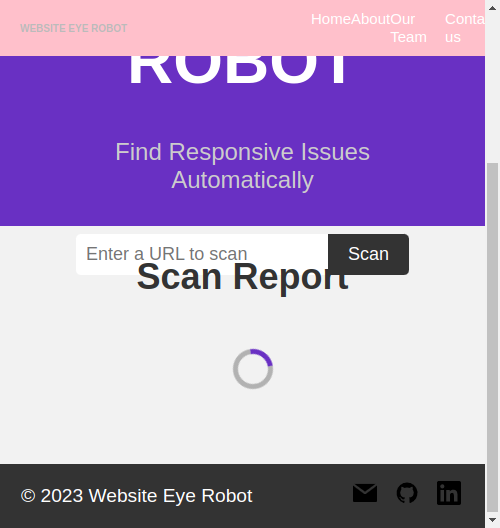
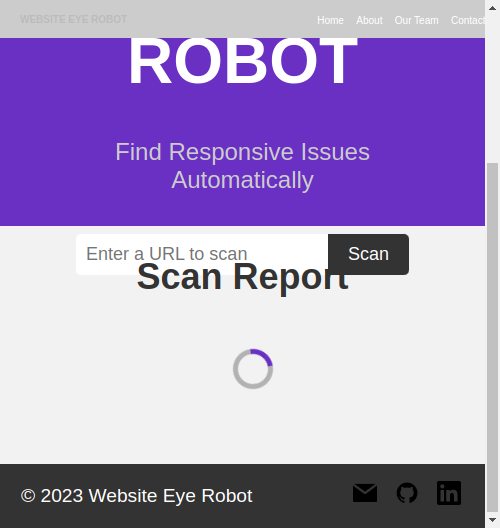
scanners improvements

Changed region(s): [[0.0, 0.0, 0.99, 0.1212]]

diff --git a/Website/script.js b/Website/script.js
@@ -10,7 +10,7 @@ function setLoadingState(isLoading) {
 
 async function getReport() {
   setLoadingState(true);
-  const response = await fetch('http://127.0.0.1:3035/report', {
+  const response = await fetch('http://127.0.0.1:3038/report', {
     method: 'GET',
     headers: { 'Content-Type': 'application/json' }
   })
@@ -52,7 +52,7 @@ function ScanReport() {
   try {
     const urlInput = document.querySelector('#url-input').value.trim();
     // Send the URL to the server for scanning
-    fetch('http://127.0.0.1:3035/report', {
+    fetch('http://127.0.0.1:3038/report', {
       method: 'POST',
       headers: { 'Content-Type': 'application/json' },
       body: JSON.stringify({ url: urlInput })

diff --git a/Website/style.css b/Website/style.css
@@ -15,7 +15,7 @@ nav {
     justify-content: space-between;
     align-items: center;
     /* background-color: #262626; */
-    background-color: pink;
+    background-color: #ccc;
     color: #B2B2B2;
     padding: 10px 20px;
     position: fixed;
@@ -64,7 +64,7 @@ nav {
 .nav-links a {
     color: #fff;
     text-decoration: none;
-    font-size: 15px;
+    font-size: 10px;
 }
 
 /* Introduction Styles */

diff --git a/COMPLETED/NEW_SCANNER_SMALL_TEXT.py b/COMPLETED/NEW_SCANNER_SMALL_TEXT.py
@@ -69,7 +69,7 @@ def calculate_min_max_height(height):
     # The minimum height of a region to be considered as containing small text
     reference_height = 1080
     min_height = 0
-    max_height = 35
+    max_height = 25
     ratio = height / reference_height
 
     MIN_HEIGHT = int(ratio * min_height)  # adjust based on image resolution
@@ -83,13 +83,14 @@ def calculate_min_max_height(height):
 def preprocess_image(img):
     # Convert the image to grayscale
     gray = cv2.cvtColor(img, cv2.COLOR_BGR2GRAY)
-
+    # Apply histogram equalization to the grayscale image
+    gray = cv2.equalizeHist(gray)
     # Enhance contrast using CLAHE
-    clahe = cv2.createCLAHE(clipLimit=4.0, tileGridSize=(8, 8))
+    clahe = cv2.createCLAHE(clipLimit=5.0, tileGridSize=(1, 1))
     gray = clahe.apply(gray)
 
     # Apply noise removal to the grayscale image using Gaussian blur
-    gray = cv2.GaussianBlur(gray, (5, 5), 0)
+    gray = cv2.GaussianBlur(gray, (1, 3), 0)
 
     # Sharpen the image using a kernel
     kernel = np.array([[-1, -1, -1], [-1, 9, -1], [-1, -1, -1]])
@@ -100,7 +101,7 @@ def preprocess_image(img):
 
 def apply_morphological_operations(thresh):
     # Define the kernel size and shape for morphological operations
-    kernel_size = 5
+    kernel_size = 1
     kernel_shape = cv2.MORPH_ELLIPSE
 
     # Create the kernel for morphological operations
@@ -116,4 +117,5 @@ def apply_morphological_operations(thresh):
     return thresh
 
 
-# detect_small_text("screenshots_1920x1080/0_1_0.png", "SMALL_TEXT.png")
+detect_small_text(
+    "/home/gefen/Website-Eye-Robot/screenshots_1366x768/1_1_0.png", "SMALL_TEXT.png")

diff --git a/COMPLETED/NEW_SCANNER_COLOR_CONTRAST.py b/COMPLETED/NEW_SCANNER_COLOR_CONTRAST.py
@@ -58,20 +58,20 @@ def load_image(img_path):
 
 def preprocess_image(img):
     gray = cv2.cvtColor(img, cv2.COLOR_BGR2GRAY)
-    clahe = cv2.createCLAHE(clipLimit=2.0, tileGridSize=(8, 8))
+    clahe = cv2.createCLAHE(clipLimit=2.0, tileGridSize=(4, 4))
     gray = clahe.apply(gray)
-    gray = cv2.GaussianBlur(gray, (1, 1), 0)
+    # gray = cv2.GaussianBlur(gray, (1, 1), 0)
     return gray
 
 
 def threshold_image(gray):
     return cv2.adaptiveThreshold(
         gray, 255, cv2.ADAPTIVE_THRESH_GAUSSIAN_C,
-        cv2.THRESH_BINARY_INV, 11, 7)
+        cv2.THRESH_BINARY_INV,11, 2)
 
 
 def apply_morphological_operations(thresh):
-    kernel_size = 11
+    kernel_size = 7
     kernel_shape = cv2.MORPH_ELLIPSE
     kernel = cv2.getStructuringElement(
         kernel_shape, (kernel_size, kernel_size))
@@ -115,4 +115,4 @@ def compute_color_difference(crop_img):
     return color_diff
 
 
-# color_contrast('/home/gefen/Website-Eye-Robot/screenshots_1366x768/1_1_0.png', 'asxjasbcjkasbjclsa.png')
+detect_color_contrast('/home/gefen/Website-Eye-Robot/screenshots_1366x768/1_1_0.png', 'COLOR_CONTRAST.png')

diff --git a/COMPLETED/NEW_SCANNER_TEXT_OVERLAP.py b/COMPLETED/NEW_SCANNER_TEXT_OVERLAP.py
@@ -82,8 +82,8 @@ def load_image(img_path):
 
 def preprocess_image(img):
     gray = cv2.cvtColor(img, cv2.COLOR_BGR2GRAY)
-    # clahe = cv2.createCLAHE(clipLimit=2.0, tileGridSize=(8, 8))
-    # gray = clahe.apply(gray)
+    clahe = cv2.createCLAHE(clipLimit=2.0, tileGridSize=(6, 6))
+    gray = clahe.apply(gray)
     # gray = cv2.GaussianBlur(gray, (1, 1), 0)
     return gray
 
@@ -151,4 +151,4 @@ def compute_overlap_ratio(x1, y1, w1, h1, x2, y2, w2, h2):
 
     return overlap_ratio
 
-# detect_text_overlap("/home/gefen/Website-Eye-Robot/screenshots_375x667/2_1_0.png", "TEXT_OVERLAP.png")
+detect_text_overlap("/home/gefen/Website-Eye-Robot/screenshots_375x667/2_1_0.png", "TEXT_OVERLAP.png")

diff --git a/COMPLETED/NEW_SERVER.py b/COMPLETED/NEW_SERVER.py
@@ -270,4 +270,4 @@ def create_parent_folders_for_scanners(base_path: str,
 
 
 if __name__ == '__main__':
-    app.run(port=3035)
+    app.run(port=3038)
